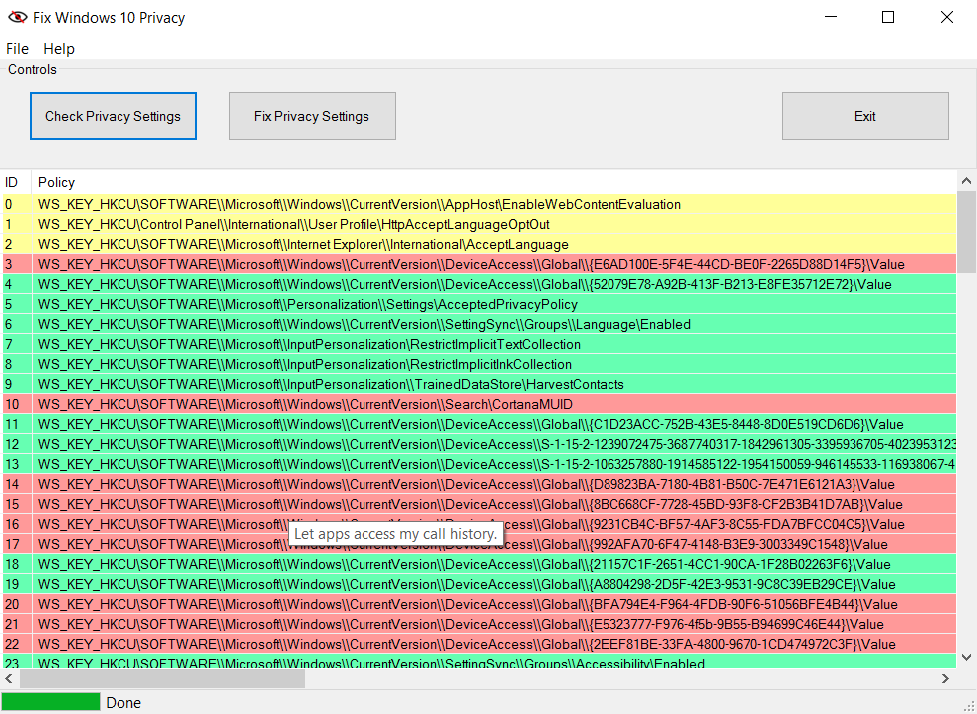
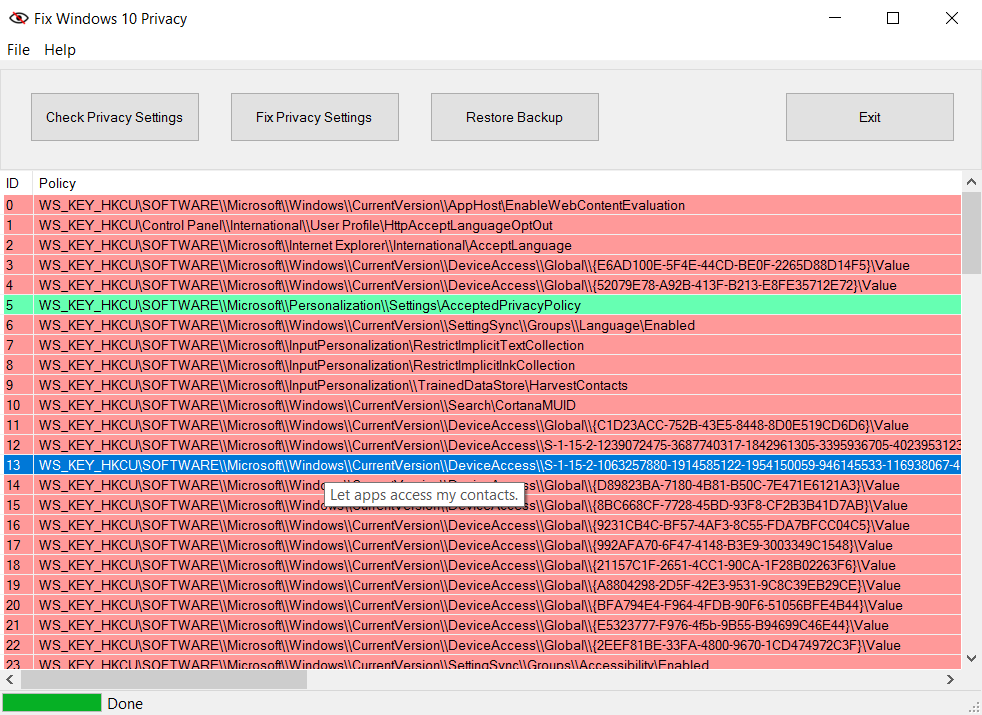
Updated project webpage.
+ New Screenshot
+ Added backup feature to description

diff --git a/docs/index.html b/docs/index.html
@@ -74,7 +74,7 @@
             Several changes at the <b>Bitlocker</b> configuration are not as relevant from a data protection point of view, but nontheless important for general protection when using <b>Bitlocker</b> full disc encryption. This includes for example activating the Pre Boot Authentification, so the hard drive will not be decrypted before entering the passphrase and will not be decrypted automatically when a TPM chip is used. In the default configuration Microsoft only allows digits for the passphrase. <i>Fix Windows Privacy</i> changes the Windows config to enable complex passphrases as well.
             </p>
             <p>
-            With this tool users have the possibility to check at any time (for example after updates) if any privacy relevant setting is still in the desired state. With another single click all such issues can be fixed again.
+            With this tool users have the possibility to check at any time (for example after updates) if any privacy relevant setting is still in the desired state. With another single click all such issues can be fixed again. The tool stores backups before each change to enable users to switch back to the previous state if something is not working as expected afterwards. The possibility to select and deselect single rules or groups of rules is a feature that is currently work in progress.
             </p>
             <p>
           The tool and all rules are open-sourced on <a href="https://modzero.github.io/fix-windows-privacy/">https://modzero.github.io/fix-windows-privacy/</a> and respectively <a href="https://github.com/modzero/fix-windows-privacy">https://github.com/modzero/fix-windows-privacy</a>. 
@@ -165,7 +165,7 @@
           </p>
           <p>
 
-            Benutzer haben mit dem Tool die M&ouml;glichkeit, jederzeit (zum Beispiel nach Updates) zu &uuml;berpr&uuml;fen, ob Datenschutz-relevante Einstellungen immer noch dem gew&uuml;nschten Zustand entsprechen. Mit einem weiteren Klick k&ouml;nnen die Probleme behoben werden.
+            Benutzer haben mit dem Tool die M&ouml;glichkeit, jederzeit (zum Beispiel nach Updates) zu &uuml;berpr&uuml;fen, ob Datenschutz-relevante Einstellungen immer noch dem gew&uuml;nschten Zustand entsprechen. Mit einem weiteren Klick k&ouml;nnen die Probleme behoben werden. Vor jeder &Auml;nderung durch das Werkzeug werden Sicherungskopien der vorherigen Einstellungen gespeichert. Mit einem Klick auf &quot;Restore Backup&quot; kann ein Benutzer aus den zuvor erstellten Backups ausw&auml;hlen und dieses wieder herstellen. Das aus- oder abw&auml;hlen einzelner Regeln oder Gruppen ist ein Feature an dem zur Zeit gearbeitet wird. In einer der n&auml;chsten Releases wird es die M&ouml;glichkeit der Abwahl einzelner Regeln geben. 
           </p>
           <p>
 
